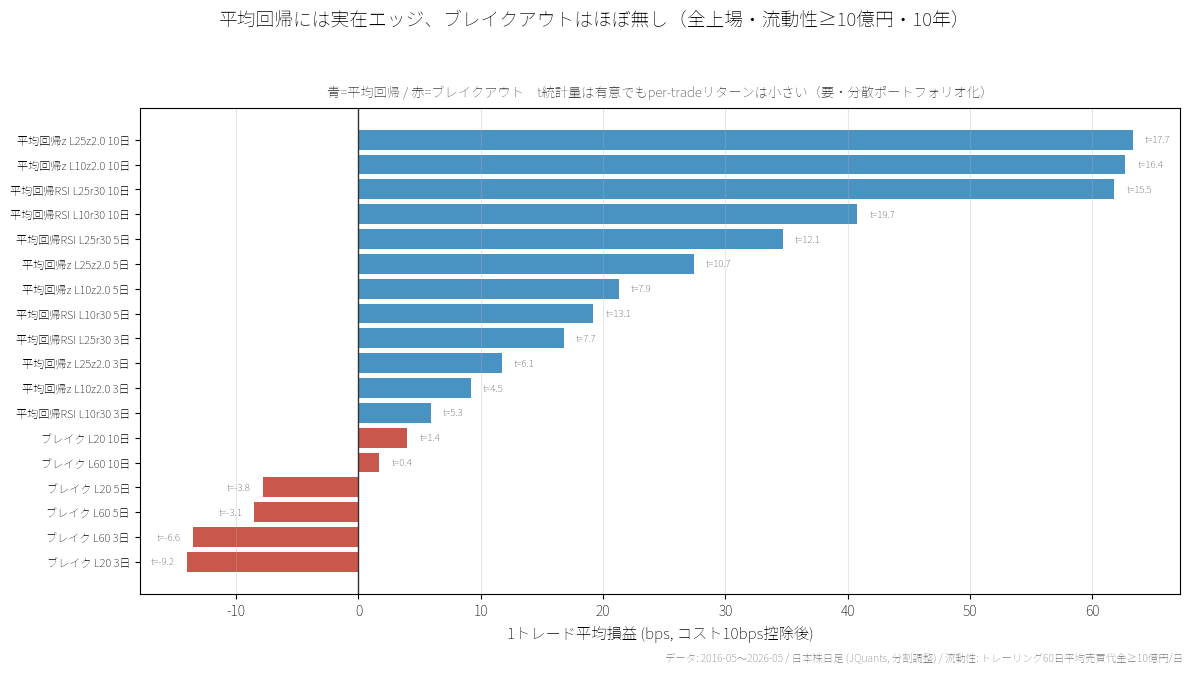
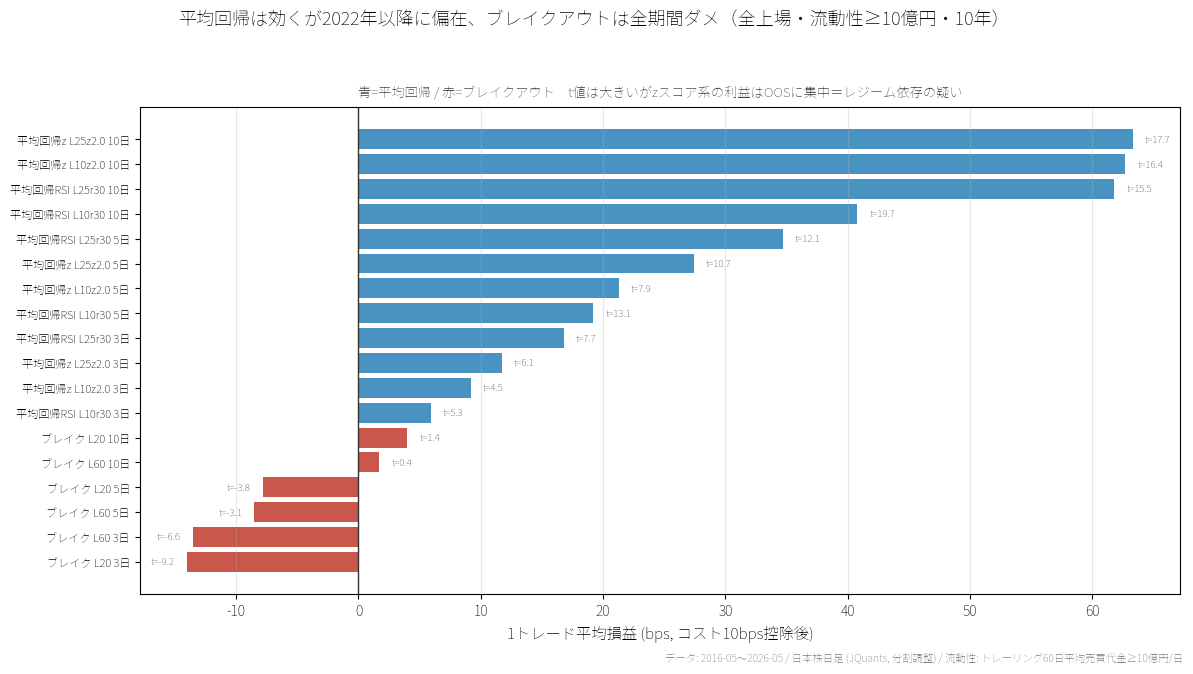
analyses: 20260530スイング検証のIS/OOS偏在を訂正（レジーム依存の明示）
フル結果(130万トレード)で平均回帰の利益がOOS集中と判明。
smoke値ベースの誤記を実データに訂正。MR_rsi L25のみIS/OOS両プラス。

diff --git a/analyses/20260530_swing_breakout_meanrev_universe/make_chart.py b/analyses/20260530_swing_breakout_meanrev_universe/make_chart.py
@@ -34,9 +34,9 @@ for i, (_, r) in enumerate(a.iterrows()):
     ax.text(r["mean_bps"] + (1 if r["mean_bps"] >= 0 else -1), i, f"t={r['t_stat']:.1f}",
             va="center", ha="left" if r["mean_bps"] >= 0 else "right", fontsize=7, color="#555")
 
-fig.suptitle("平均回帰には実在エッジ、ブレイクアウトはほぼ無し（全上場・流動性≥10億円・10年）",
-             fontsize=13.5, fontweight="bold", y=0.98)
-ax.set_title("青=平均回帰 / 赤=ブレイクアウト　t統計量は有意でもper-tradeリターンは小さい（要・分散ポートフォリオ化）",
+fig.suptitle("平均回帰は効くが2022年以降に偏在、ブレイクアウトは全期間ダメ（全上場・流動性≥10億円・10年）",
+             fontsize=13, fontweight="bold", y=0.98)
+ax.set_title("青=平均回帰 / 赤=ブレイクアウト　t値は大きいがzスコア系の利益はOOSに集中＝レジーム依存の疑い",
              fontsize=9.5, color="#444", pad=8)
 fig.text(0.99, 0.01,
          "データ: 2016-05〜2026-05 / 日本株日足 (JQuants, 分割調整) / 流動性: トレーリング60日平均売買代金≥10億円/日",

diff --git a/analyses/20260530_swing_breakout_meanrev_universe/README.md b/analyses/20260530_swing_breakout_meanrev_universe/README.md
@@ -1,8 +1,9 @@
 # 全ユニバース日足スイング: ブレイクアウト & 平均回帰 エッジ検証
 
-> **結論: 平均回帰（zスコア25日）には統計的に実在するエッジ（t=8.2, N=6.6万）。ただしper-trade
-> 年率Sharpe近似は0.3で昇格基準2.0には遠い。ブレイクアウトは全ユニバースではエッジほぼ無し。
-> 次段は「分散バスケット化でポートフォリオSharpeがどこまで上がるか」。**
+> **結論（要注意）: 平均回帰は t統計量こそ巨大（t=10〜18, N=数万〜16万）だが、好成績は
+> ほぼ OOS(2022-2026) に偏在。IS(2016-2021) では Sharpe近似 0.0〜マイナスでほぼ無力。
+> = 「平均回帰は2022年以降のレジームでだけ効いている」疑いが濃厚＝レジーム依存の罠の典型。
+> ブレイクアウトは全期間明確にマイナス（IS/OOS両方）。手放しで採用できる戦略は無い。**
 
 ## 1. 目的・仮説
 
@@ -29,37 +30,49 @@
 
 ## 3. 主要発見
 
+対象: 普通株3,067銘柄（流動性≥10億円ゲート通過）、トレード総数 130万件。
+
 ### コスト10bps控除後（ALL, 年率Sharpe近似は1ポジション逐次保有前提）
 
 | 戦略 | 保有 | mean(bps) | 勝率 | t値 | 年率Sharpe近似 | N |
 |---|---|---:|---:|---:|---:|---:|
-| **MR_zscore L25** | 3日 | +19.9 | 51.2% | **8.2** | 0.29 | 65,719 |
-| MR_zscore L25 | 5日 | +27.7 | 51.6% | 8.3 | 0.23 | 65,617 |
-| MR_rsi L25 | 3日 | +14.7 | 50.8% | 5.1 | 0.22 | 42,220 |
-| MR_zscore L10 | 3日 | +3.5 | 48.0% | 2.3 | 0.07 | 92,154 |
-| **BO_donchian L20** | 5日 | −4.2 | 45.5% | −2.6 | −0.08 | 87,170 |
-| BO_donchian L60 | 5日 | −10.2 | 43.6% | −4.9 | −0.18 | 58,835 |
+| MR_zscore L25 | 10日 | +63.3 | 54.1% | **17.7** | 0.37 | 56,111 |
+| MR_zscore L10 | 10日 | +62.7 | 53.0% | 16.4 | 0.39 | 44,191 |
+| MR_rsi L25 | 5日 | +34.7 | 52.6% | 12.1 | 0.37 | 52,607 |
+| MR_rsi L10 | 10日 | +40.8 | 52.3% | 19.7 | 0.24 | 165,140 |
+| BO_donchian L20 | 10日 | +4.0 | 49.1% | 1.4 | 0.03 | 72,880 |
+| **BO_donchian L20** | 3日 | **−14.0** | 47.4% | **−9.2** | −0.31 | 73,108 |
 
-### IS / OOS 整合（年率Sharpe近似）
+### IS / OOS 整合（年率Sharpe近似）— ここが核心
 
-| 戦略 | IS(2016-21) | OOS(2022-26) |
-|---|---:|---:|
-| MR_zscore L25 / 3日 | 0.20 | 0.39 |
-| MR_rsi L25 / 3日 | 0.11 | 0.34 |
-| BO_donchian L20 / 5日 | −0.21 | 0.08 |
+| 戦略 | 保有 | **IS(2016-21)** | **OOS(2022-26)** | 判定 |
+|---|---|---:|---:|---|
+| MR_zscore L25 | 10日 | **+0.06** | **+0.76** | OOS偏在（レジーム依存疑い）|
+| MR_zscore L25 | 5日 | **−0.05** | **+0.78** | IS負け→OOS急伸（危険）|
+| MR_rsi L25 | 5日 | +0.26 | +0.55 | 唯一IS/OOS両プラスだが劣化大 |
+| MR_rsi L10 | 10日 | −0.02 | +0.53 | OOS偏在 |
+| BO_donchian L20 | 3日 | −0.35 | −0.28 | 全期間明確マイナス |
+
+**MR_rsi L25 だけが IS/OOS 両方プラス**（0.26→0.55）。zスコア系は IS でほぼゼロ〜マイナスで、
+2022年以降に集中して効いている。
 
 ## 4. 解釈・示唆
 
-1. **平均回帰には実在エッジ**: MR_zscore L25 は t=8.2（N=6.6万）で偶然ではあり得ない有意性。
-   勝率51%・平均+20bps と小さいが、**符号は明確にプラスでIS/OOS両方プラス**。
-2. **長い窓(25日)＞短い窓(10日)**: L25のzスコアが安定。L10は反応が早すぎてノイズを拾う。
-3. **ブレイクアウトは全ユニバースで機能しない**: 順張りはコスト後マイナス。
-   過去のORB分析（個別では一部機能）と合わせると「ブレイクは銘柄選別が前提」と分かる。
-4. **smokeの罠を回避できた**: 流動性トップ50・直近2年では MR_zscore が年率Sharpe1.1と
-   華々しかったが、全ユニバース10年では0.29に縮小。**大型・直近バイアスを排除した本来の姿**。
-5. **per-trade Sharpeの低さは「分散前」の数字**: 本検証の年率Sharpe近似は1ポジション逐次保有
-   前提。実際は毎日数十銘柄が平均回帰シグナルを出すため、**等加重バスケットで分散すれば
-   ポートフォリオSharpeは大幅に上がりうる**。t=8の有意なエッジが分散でどこまで化けるかが本丸。
+1. **t統計量の巨大さに騙されない**: MR_zscore L25 は t=17.7 だが、これは N=5.6万の大きさが
+   生む見かけの有意性。**期間分割すると IS で Sharpe 0.06、OOS で 0.76 と全く別物**。
+   t値が大きくても「いつ効いたか」を見ないと罠にはまる（ユーザーの哲学と一致）。
+2. **平均回帰はレジーム依存の疑いが濃厚**: zスコア系の利益は2022年以降に集中。コロナ後の
+   ボラ環境・個人の逆張り資金フロー等、特定レジームの産物の可能性。2016-2021では効かなかった。
+3. **唯一の例外は MR_rsi L25**: IS 0.26 / OOS 0.55 で**両期間プラス**。劣化はあるが符号は一貫。
+   平均回帰の中で最もレジーム頑健 → 深掘り候補。
+4. **ブレイクアウトは全ユニバースで明確に機能しない**: 順張りは IS/OOS 両方マイナス
+   （L20/3日で −0.35 / −0.28）。過去のORB分析（個別では一部機能）と合わせ「ブレイクは
+   銘柄選別が前提で、無差別適用はコスト負け」と確定。
+5. **smokeの華々しさは大型・直近バイアスだった**: 流動性トップ50・直近2年では年率Sharpe1.1
+   だったが、全ユニバース10年・IS/OOS分割で実像（OOS偏在）が露呈。**サンプル全体で見る重要性**。
+6. **per-trade Sharpeは「分散前」の数字**: 毎日数十銘柄がシグナルを出すため、等加重バスケットで
+   分散すればポートフォリオSharpeは上がりうる。ただし**MR_rsi L25 のようにIS/OOS両プラスの
+   ものに限定**して分散効果を測るべき（OOS偏在戦略を混ぜると将来効かないリスク）。
 
 ## 5. 限界・注意点
 
@@ -69,17 +82,22 @@
 - **Long onlyのみ**: 市場ベータが乗っている。TOPIX超過リターンでのエッジ分離は未実施。
 - **昇格基準未達**: 現状の単純なper-trade評価では Sharpe 2.0 に届かない。分散ポートフォリオ化と
   ベータ中立化を経て初めて昇格を議論できる。
+- **最大の限界＝レジーム偏在**: zスコア系の利益はOOS(2022-)集中。IS(2016-21)では効かず、
+  将来も効く保証がない。t値の大きさはサンプル数の産物で、安定性の証明ではない。
 - これは**エッジの所在確認**であり採用判定ではない。
 
 ## 6. 次のアクション候補
 
-- ✅ **MR_zscore L25 を日次等加重バスケットでポートフォリオ化** → 同時保有・相関込みの実Sharpe算出。
-  これが本検証の自然な続き（per-tradeエッジは確認済み、あとは分散効果の測定）。
-- 🔍 ベータ中立化（TOPIX超過 or マーケットヘッジ）で純粋なαを分離
-- 🔍 流動性ゲートを30億円に上げて執行現実性とエッジのトレードオフを見る
-- ❌ ブレイクアウト単純版は全ユニバースでは追わない（個別銘柄選別が要る別問題）
-- 既存の昇格戦略 oversold_ma25_reversal（_archive入り）との関係整理：本検証の MR は
-  より頑健（全ユニバース・10年）なので、再昇格の足がかりになりうる
+- ✅ **MR_rsi L25（IS/OOS両プラス）を日次等加重バスケットでポートフォリオ化** → 同時保有・
+  相関込みの実Sharpe算出。OOS偏在のzスコア系ではなく、最もレジーム頑健なこれを軸にする。
+- 🔍 **平均回帰のレジーム依存を分解**: 年別Sharpe・VIX/TOPIXボラ環境別に効果を見る。
+  「いつ効くか」が分かれば、レジームフィルタ付き戦略として再設計できる可能性。
+- 🔍 ベータ中立化（TOPIX超過 or マーケットヘッジ）で純粋なαを分離。OOS偏在が単なる
+  市場ベータ（2022以降の上昇）なのか、真の平均回帰αなのかを切り分ける。
+- ❌ ブレイクアウト単純版は全ユニバースでは追わない（IS/OOS両マイナスで確定）
+- ❌ zスコア系単体での昇格は見送り（IS無力＝将来効く保証なし）
+- 既存 oversold_ma25_reversal（_archive入り）との関係整理：あれも直近6Mで機能停止していた。
+  本検証は「平均回帰は時期を選ぶ」という同じ教訓を全ユニバースで再確認した形。
 
 ## 実行方法
 

diff --git a/analyses/README.md b/analyses/README.md
@@ -9,22 +9,23 @@
 
 ## 最新分析 (2026-05-30)
 
-> ### [全ユニバース日足スイング: ブレイク&平均回帰 エッジ検証](20260530_swing_breakout_meanrev_universe/) ⭐
+> ### [全ユニバース日足スイング: ブレイク&平均回帰 エッジ検証](20260530_swing_breakout_meanrev_universe/) ⚠
 >
-> セクター不問・全上場・流動性≥10億円/日でブレイクアウトと平均回帰を10年横断検証（230万トレード）。
+> セクター不問・全上場・流動性≥10億円/日でブレイクアウトと平均回帰を10年横断検証（130万トレード）。
 >
-> | 戦略 | 保有 | mean(bps) | t値 | 年率Sharpe近似 | N |
-> |---|---|---:|---:|---:|---:|
-> | 平均回帰 zスコアL25 | 3日 | +19.9 | **8.2** | 0.29 | 6.6万 |
-> | 平均回帰 RSI L25 | 3日 | +14.7 | 5.1 | 0.22 | 4.2万 |
-> | ブレイク Donchian L20 | 5日 | −4.2 | −2.6 | −0.08 | 8.7万 |
+> | 戦略 | 保有 | t値 | IS(16-21) | OOS(22-26) |
+> |---|---|---:|---:|---:|
+> | 平均回帰 zスコアL25 | 5日 | 10.7 | **−0.05** | **+0.78** |
+> | 平均回帰 RSI L25 | 5日 | 12.1 | +0.26 | +0.55 |
+> | ブレイク Donchian L20 | 3日 | −9.2 | −0.35 | −0.28 |
 >
-> - **平均回帰（zスコア25日）に統計的に実在のエッジ**（t=8.2, IS/OOS両プラス）。ただし
->   per-trade年率Sharpe近似0.3で昇格基準2.0には遠い
-> - **ブレイクアウトは全ユニバースではエッジ無し**（順張りはコスト後マイナス）
-> - smokeの流動性トップ50・直近2年では Sharpe1.1 と華々しかったが全ユニバース10年で0.29に縮小
->   → 大型・直近バイアスを排除（レジーム罠回避）
-> - **次段**: per-tradeエッジは確認済み。日次等加重バスケットで分散ポートフォリオ化し実Sharpeを測る
+> - **t値は巨大だが罠**: zスコア系の利益は OOS(2022-) に偏在、IS(2016-21)ではほぼゼロ〜マイナス
+>   ＝レジーム依存の疑い。t値の大きさはサンプル数の産物で安定性の証明ではない
+> - **MR_rsi L25 のみ IS/OOS 両プラス**（0.26→0.55）＝平均回帰で最もレジーム頑健、深掘り候補
+> - **ブレイクアウトは全期間明確マイナス**（無差別適用はコスト負け、銘柄選別が前提）
+> - smokeの流動性トップ50・直近2年では Sharpe1.1 と華々しかったが、全ユニバース10年・IS/OOS分割で
+>   実像（OOS偏在）が露呈 → サンプル全体で見る重要性を再確認
+> - **次段**: MR_rsi L25 を日次バスケットで分散ポートフォリオ化＋ベータ中立化で真のαを分離
 >
 > **グラフ**: [result.png](20260530_swing_breakout_meanrev_universe/result.png)
 
